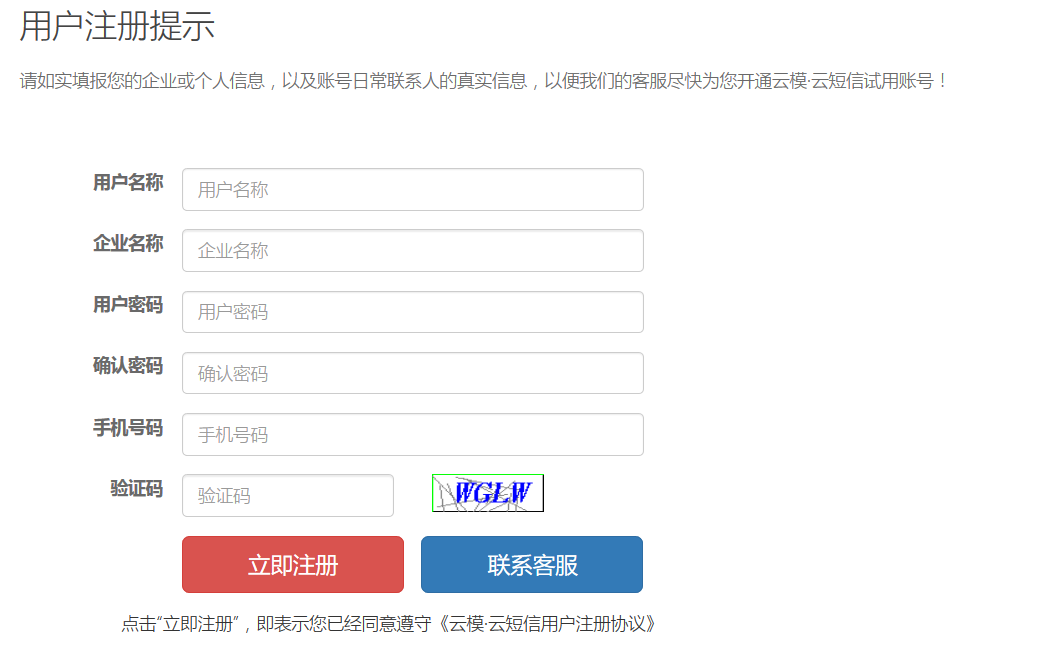
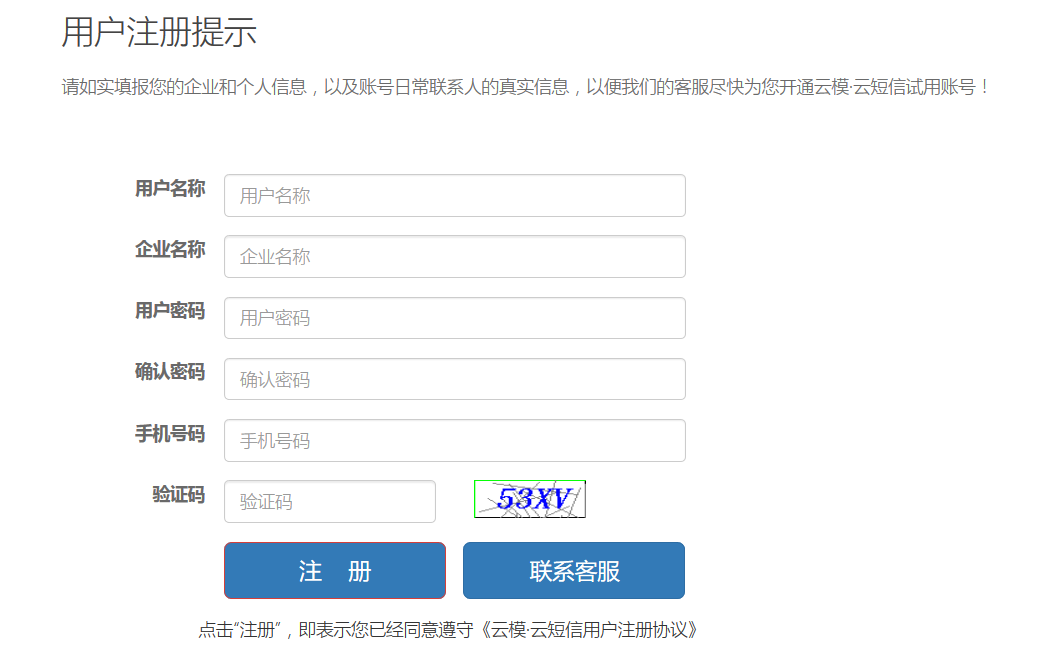
无用的图片删除，user表变更后代码修正

Changed region(s): [[0.0921, 0.2421, 0.6756, 0.9682], [0.0, 0.0, 0.952, 0.1513]]

diff --git a/WebRoot/AboutUs.html b/WebRoot/AboutUs.html
@@ -68,14 +68,14 @@
     <div class="txt">
       <div><span style="font-family:微软雅黑;">&nbsp; 
         &nbsp; 
-        &nbsp;&nbsp;杭州云模网络科技有限公司（以下简称“云模”）成立于2016年，注册资本200万元人民币，总部位于杭州市滨江区秋溢路西可软件园，
+        &nbsp;&nbsp;杭州云模网络科技有限公司（以下简称“云模”）成立于2016年，总部位于杭州市滨江区秋溢路西可软件园，
         是一家集商务信息服务平台、产 品及解决方案研发、建设、运营和销售于一体的国家高新技术企业。是国内最强从事短信应用与服务的公司之一，专注于各类短信息在商务与通信领域的应用。 </span></div>
       <div><span style="font-family:微软雅黑;">&nbsp; &nbsp; &nbsp; 
         秉承“以人为本，品质成就未来；以客为尊，服务创造价值”的企业理念，
         公司成立以来，云模已经成功为多个企业提供了优质的短信服务。
         云模网络凭借强大的技术与服务能力，先后与国内多家运营商建立深度合作关系，并得到运营商的高度认可。</span></div>
       <div><span style="font-family:微软雅黑;">&nbsp; &nbsp; &nbsp; 
-        公司努力在未来的3-5年时间里，把公司打造成跨网、跨国家和区域、跨运营商的全球最佳的消息服务运营商。</span></div>
+        我们努力在未来3-5年时间里，把公司打造成跨网、跨国家和区域、跨运营商的全球最佳的消息服务运营商。</span></div>
     </div>
     <p class="img"><img src="image/about.jpg" alt="杭州云模网络科技有限公司"></p>
   </div>

diff --git a/WebRoot/register.html b/WebRoot/register.html
@@ -68,7 +68,7 @@
   <div class="container clearfix">
     <div class="item2">
       <div class="title">用户注册提示</div>
-      <div class="txt">请如实填报您的企业和个人信息，以及账号日常联系人的真实信息，以便我们的客服尽快为您开通云模·云短信试用账号！</div>
+      <div class="txt">请如实填报您的企业和个人信息，以便我们的客服尽快为您开通云模·云短信试用账号！</div>
       <div class="content">
         <form action="/sms/servlet/RegisterServlet" method="post" class="form-horizontal regform" id="regform">
           <div class="form-group">

diff --git a/WebRoot/API6.html b/WebRoot/API6.html
@@ -64,7 +64,7 @@
 <!--main--><!-- InstanceBeginEditable name="EditRegion1" -->
 <!--
 <div id="main">
-	<div class="banner-detail" style="height:565px; width:auto;background-image:url(image/background3.png)">
+	<div class="banner-detail" style="height:565px; width:auto;background-image:url(image/background.png)">
 </div>-->
 <div class="navigate" style="margin:40px auto;">
   <div class="container"><i class="iconfont"></i><a href="index.html">首页</a> &gt; <a href="javascript:void(0);">API开放接口</a> &gt; <a href="API.html">短信验证码</a> &gt; <a href="API6.html">短信模板添加修改</a></div>

diff --git a/WebRoot/API2.html b/WebRoot/API2.html
@@ -64,7 +64,7 @@
 <!--main--><!-- InstanceBeginEditable name="EditRegion1" -->
 <!--
 <div id="main">
-	<div class="banner-detail" style="height:565px; width:auto;background-image:url(image/background3.png)">
+	<div class="banner-detail" style="height:565px; width:auto;background-image:url(image/background.png)">
 </div>-->
 <div class="navigate" style="margin:40px auto;">
   <div class="container"><i class="iconfont"></i><a href="index.html">首页</a> &gt; <a href="javascript:void(0);">API开放接口</a> &gt; <a href="API.html">短信验证码</a> &gt; <a href="API2.html">个性短信发送</a></div>

diff --git a/WebRoot/API3.html b/WebRoot/API3.html
@@ -64,7 +64,7 @@
 <!--main--><!-- InstanceBeginEditable name="EditRegion1" -->
 <!--
 <div id="main">
-	<div class="banner-detail" style="height:565px; width:auto;background-image:url(image/background3.png)">
+	<div class="banner-detail" style="height:565px; width:auto;background-image:url(image/background.png)">
 </div>-->
 <div class="navigate" style="margin:40px auto;">
   <div class="container"><i class="iconfont"></i><a href="index.html">首页</a> &gt; <a href="javascript:void(0);">API开放接口</a> &gt; <a href="API.html">短信验证码</a> &gt; <a href="API3.html">状态报告推送</a></div>

diff --git a/WebRoot/API5.html b/WebRoot/API5.html
@@ -64,7 +64,7 @@
 <!--main--><!-- InstanceBeginEditable name="EditRegion1" -->
 <!--
 <div id="main">
-	<div class="banner-detail" style="height:565px; width:auto;background-image:url(image/background3.png)">
+	<div class="banner-detail" style="height:565px; width:auto;background-image:url(image/background.png)">
 </div>-->
 <div class="navigate" style="margin:40px auto;">
   <div class="container"><i class="iconfont"></i><a href="index.html">首页</a> &gt; <a href="javascript:void(0);">API开放接口</a> &gt; <a href="API.html">短信验证码</a> &gt; <a href="API5.html">余额查询接口</a></div>

diff --git a/WebRoot/API7.html b/WebRoot/API7.html
@@ -64,7 +64,7 @@
 <!--main--><!-- InstanceBeginEditable name="EditRegion1" -->
 <!--
 <div id="main">
-	<div class="banner-detail" style="height:565px; width:auto;background-image:url(image/background3.png)">
+	<div class="banner-detail" style="height:565px; width:auto;background-image:url(image/background.png)">
 </div>-->
 <div class="navigate" style="margin:40px auto;">
   <div class="container"><i class="iconfont"></i><a href="index.html">首页</a> &gt; <a href="javascript:void(0);">API开放接口</a> &gt; <a href="API.html">短信验证码</a> &gt; <a href="API7.html">模板审核状态</a></div>

diff --git a/WebRoot/API.html b/WebRoot/API.html
@@ -64,7 +64,7 @@
 <!--main--><!-- InstanceBeginEditable name="EditRegion1" -->
 <!--
 <div id="main">
-	<div class="banner-detail" style="height:565px; width:auto;background-image:url(image/background3.png)">
+	<div class="banner-detail" style="height:565px; width:auto;background-image:url(image/background.png)">
 </div>-->
 <div class="navigate" style="margin:40px auto;">
   <div class="container"><i class="iconfont"></i><a href="index.html">首页</a> &gt; <a href="javascript:void(0);">API开放接口</a> &gt; <a href="API.html">短信验证码</a> &gt; <a href="API.html">普通短信发送</a></div>

diff --git a/WebRoot/API8.html b/WebRoot/API8.html
@@ -64,7 +64,7 @@
 <!--main--><!-- InstanceBeginEditable name="EditRegion1" -->
 <!--
 <div id="main">
-	<div class="banner-detail" style="height:565px; width:auto;background-image:url(image/background3.png)">
+	<div class="banner-detail" style="height:565px; width:auto;background-image:url(image/background.png)">
 </div>-->
 <div class="navigate" style="margin:40px auto;">
   <div class="container"><i class="iconfont"></i><a href="index.html">首页</a> &gt; <a href="javascript:void(0);">API开放接口</a> &gt; <a href="API.html">短信验证码</a> &gt; <a href="API8.html">下载接口包</a></div>

diff --git a/WebRoot/API4.html b/WebRoot/API4.html
@@ -64,7 +64,7 @@
 <!--main--><!-- InstanceBeginEditable name="EditRegion1" -->
 <!--
 <div id="main">
-	<div class="banner-detail" style="height:565px; width:auto;background-image:url(image/background3.png)">
+	<div class="banner-detail" style="height:565px; width:auto;background-image:url(image/background.png)">
 </div>-->
 <div class="navigate" style="margin:40px auto;">
   <div class="container"><i class="iconfont"></i><a href="index.html">首页</a> &gt; <a href="javascript:void(0);">API开放接口</a> &gt; <a href="API.html">短信验证码</a> &gt; <a href="API4.html">短信接收</a></div>

diff --git a/WebRoot/index.html b/WebRoot/index.html
@@ -64,7 +64,7 @@
 <!--main--><!-- #BeginEditable "EditRegion1" -->
 <div id="main">
   <div class="banner">
-    <div class="slick slick-initialized slick-slider" style="height:565px; width:auto; background-image:url(image/background3.png); margin:0 auto;"> </div>
+    <div class="slick slick-initialized slick-slider" style="height:565px; width:auto; background-image:url(image/background.png); margin:0 auto;"> </div>
   </div>
   <div class="item index-service" style="margin-top:0px;">
   <h1 class="title">我们的服务<i class="line"></i></h1>

diff --git a/src/yunmo/sms/bean/User.java b/src/yunmo/sms/bean/User.java
@@ -15,6 +15,16 @@ public class User {
 	private String telNo;
 	
 	private Date registerDate;
+	
+	private String status;
+
+	public String getStatus() {
+		return status;
+	}
+
+	public void setStatus(String status) {
+		this.status = status;
+	}
 
 	public Integer getId() {
 		return id;
@@ -71,8 +81,10 @@ public class User {
 		// TODO Auto-generated constructor stub
 	}
 
+	
+
 	public User(Integer id, String userName, String companyName,
-			String password, String telNo, Date registerDate) {
+			String password, String telNo, Date registerDate, String status) {
 		super();
 		this.id = id;
 		this.userName = userName;
@@ -80,14 +92,17 @@ public class User {
 		this.password = password;
 		this.telNo = telNo;
 		this.registerDate = registerDate;
+		this.status = status;
 	}
 
 	@Override
 	public String toString() {
 		return "User [id=" + id + ", userName=" + userName + ", companyName="
 				+ companyName + ", password=" + password + ", telNo=" + telNo
-				+ ", registerDate=" + registerDate + "]";
+				+ ", registerDate=" + registerDate + ", status=" + status + "]";
 	}
+
+	
 	
 	
 	
